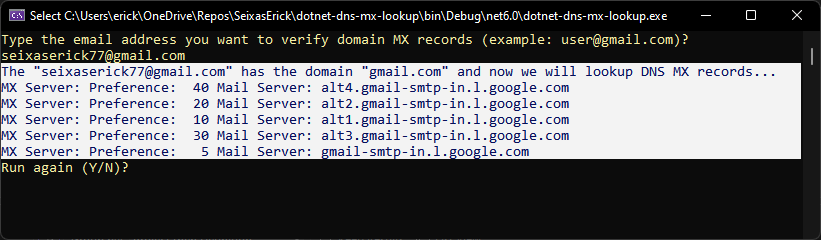
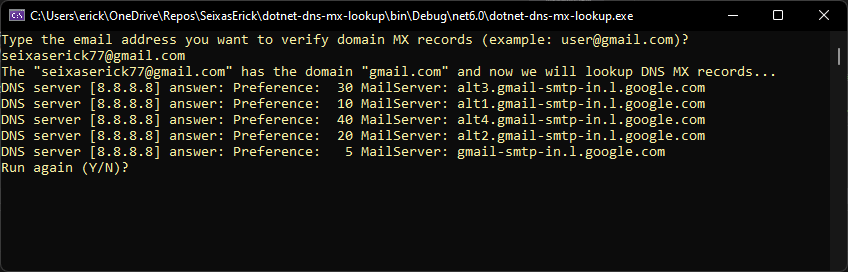
Returning info about which DNS servers  was used to mx query

diff --git a/Program.cs b/Program.cs
@@ -40,8 +40,8 @@ while (true)
     Console.WriteLine(@$"The ""{inputText}"" has the domain ""{emailDomain}"" and now we will lookup DNS MX records...");
 
 
-
-    var dnsServersList = new List<string>("8.8.8.8, 8.8.4.4".Split(','));
+    // Comma-separated DNS server list (IPs). Google public DNS servers ("8.8.8.8" or "8.8.4.4.") are used in this example for quering MX records. You can change this DNS servers to your prefered DNS servers.
+    var dnsServersList = new List<string>("8.8.8.8,8.8.4.4".Split(',')); 
 
     var dnsLite = new DnsLib.DnsLite();
     dnsLite.setDnsServers(dnsServersList);
@@ -52,11 +52,10 @@ while (true)
         Console.WriteLine(@$"The domain ""{emailDomain}"" has no MX DNS records!");
     }
 
-
-
+    // Print all mail servers found and its preferences (priorities)
     foreach (var dnsMxRecord in dnsMxRecords)
     {
-        Console.WriteLine($"MX Server: {dnsMxRecord}");
+        Console.WriteLine($"DNS server [{dnsMxRecord.dnsServer}] answer: {dnsMxRecord}");
     }
 
     // Asks the user if want to run again
